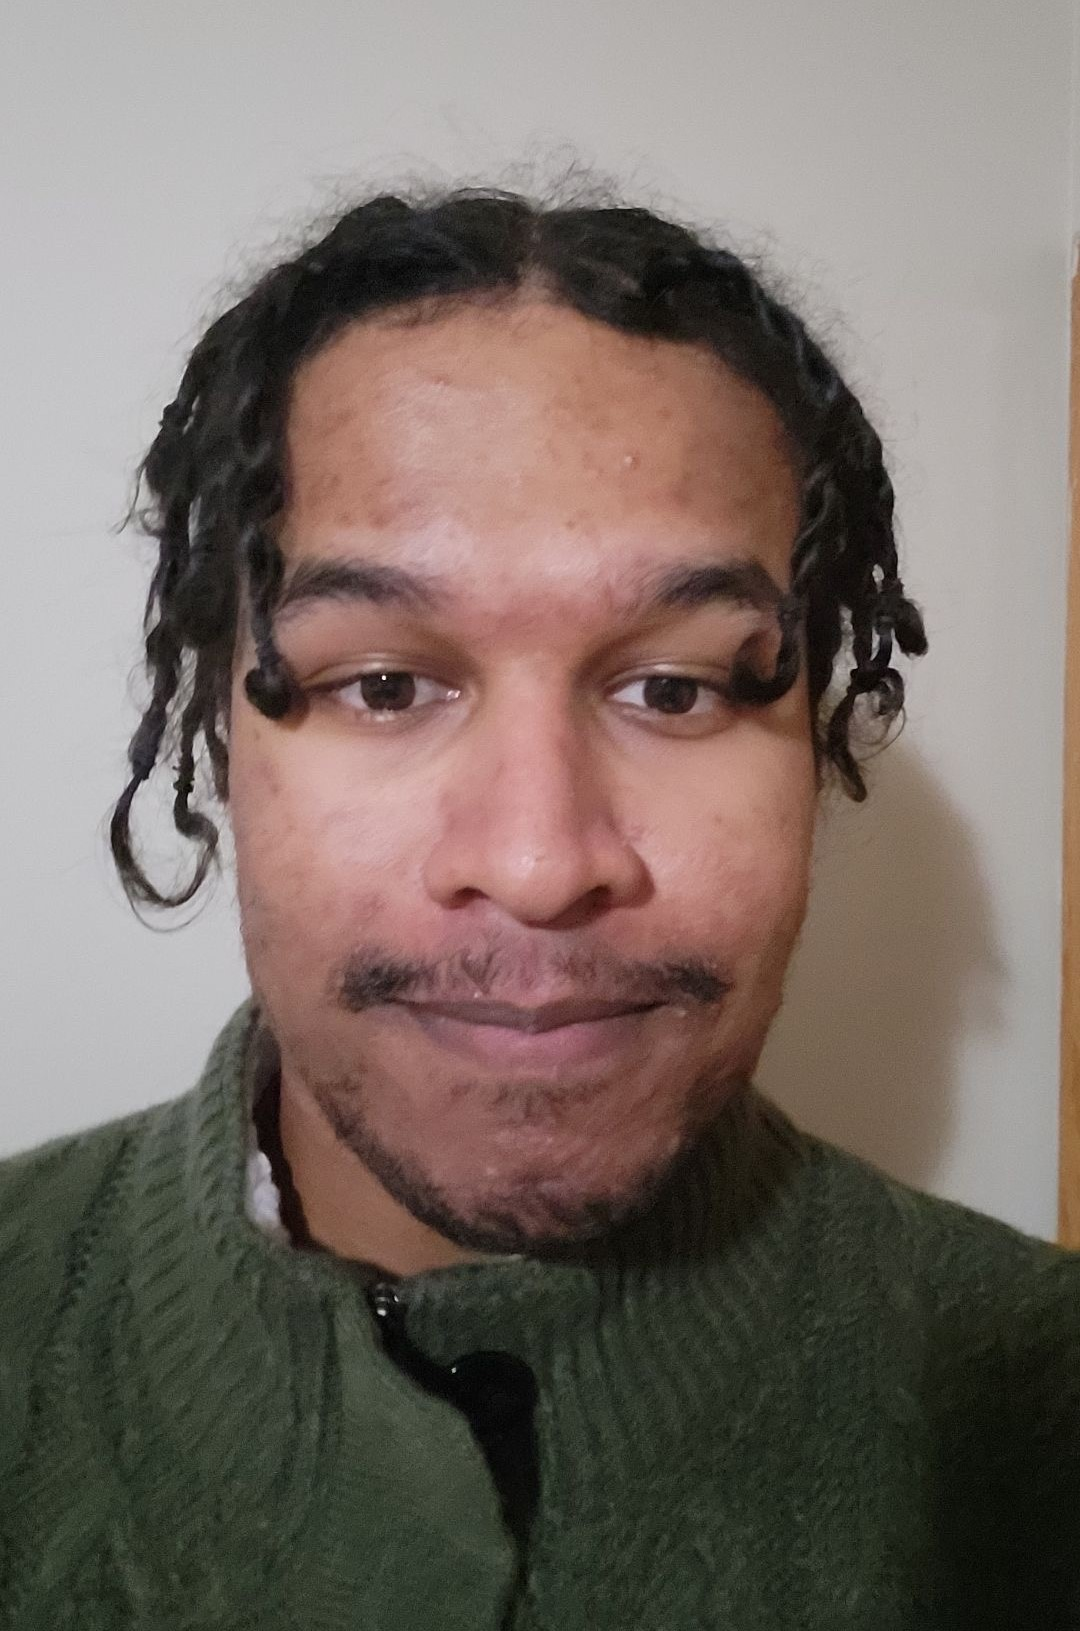
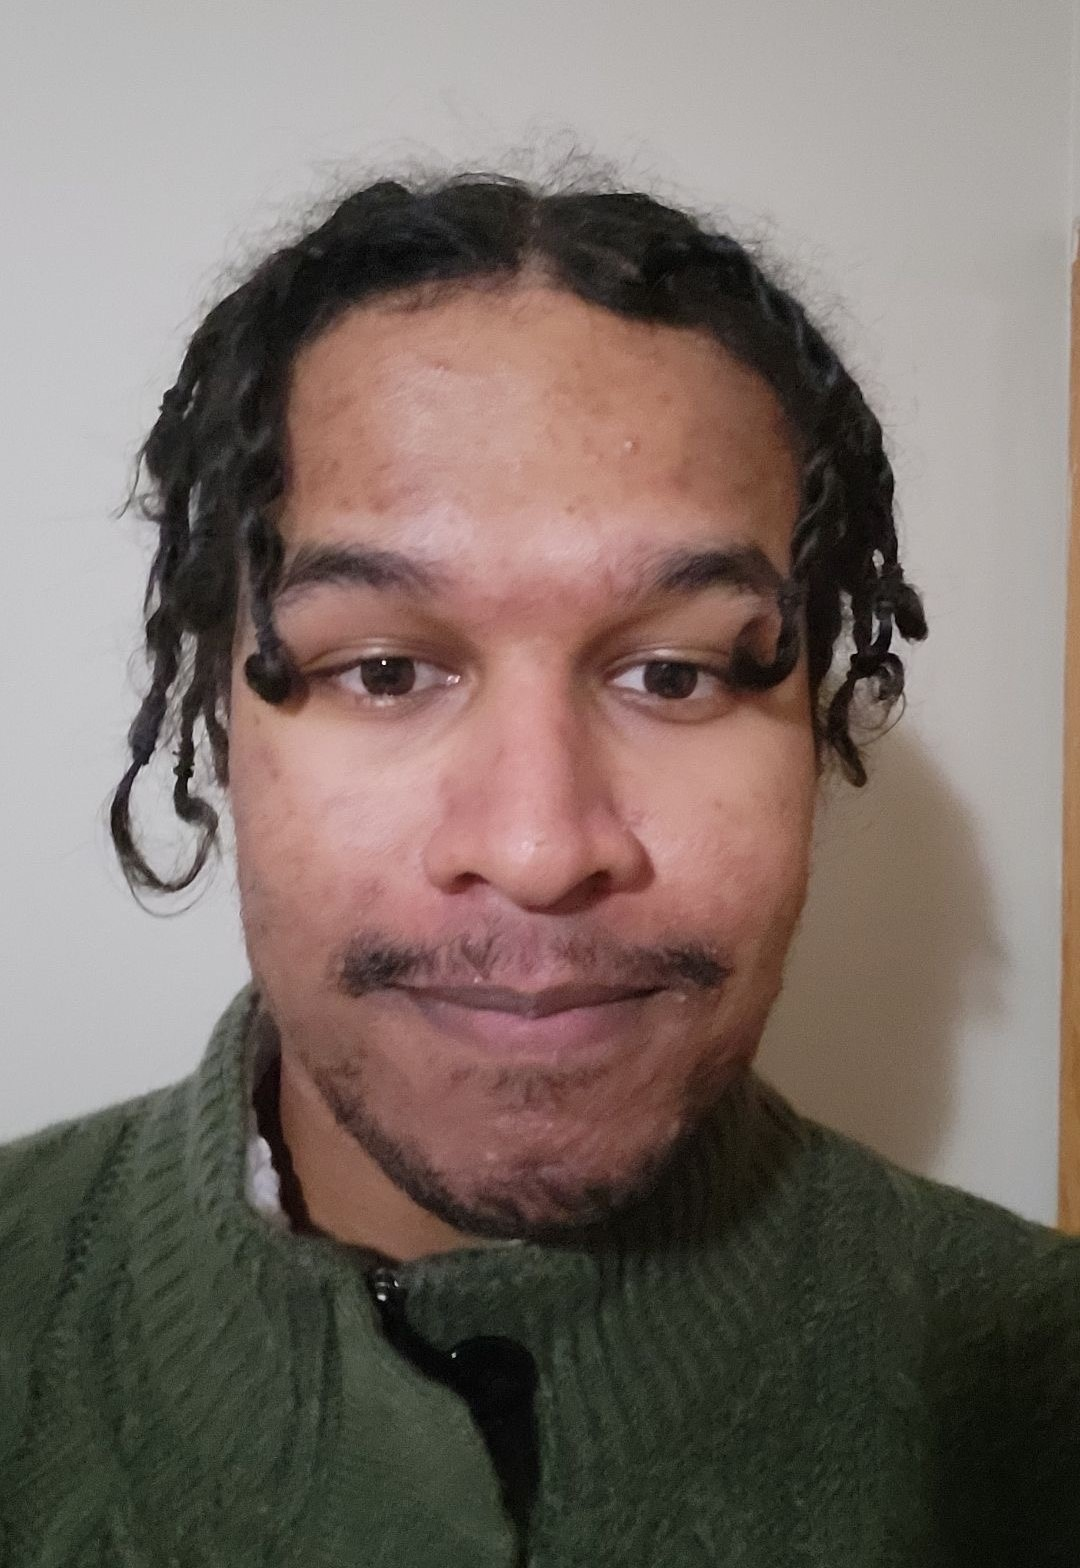
added joel and josh week 4

diff --git a/joel.html b/joel.html
@@ -42,7 +42,7 @@
         <p>Week 3</p>
       </div>
       <div class="week4">
-        <img src="general-pics/blank.jpg">
+        <img src="headshots-week4/joel-week4.JPG">
         <p>Week 4</p>
       </div>
     </div>

diff --git a/josh.html b/josh.html
@@ -43,7 +43,7 @@
         <p>Week 3</p>
       </div>
       <div class="week4">
-        <img src="general-pics/blank.jpg">
+        <img src="headshots-week4/josh-week4.JPG">
         <p>Week 4</p>
       </div>
     </div>
